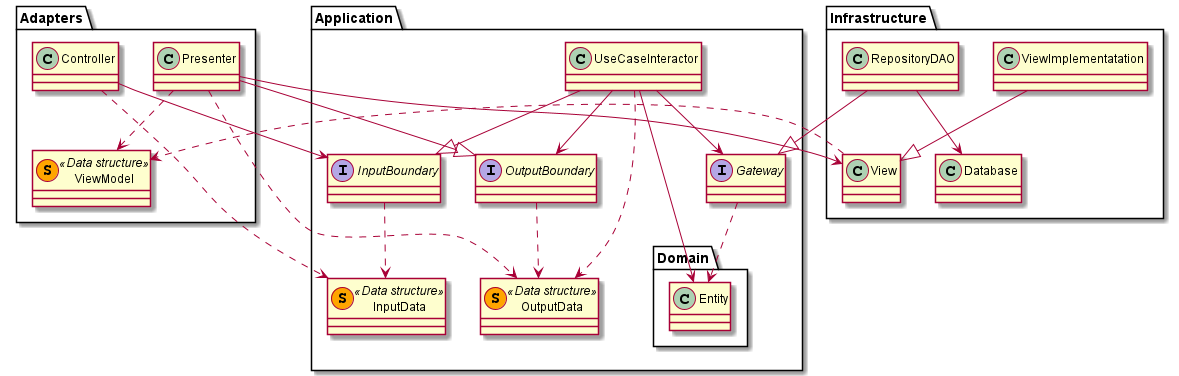
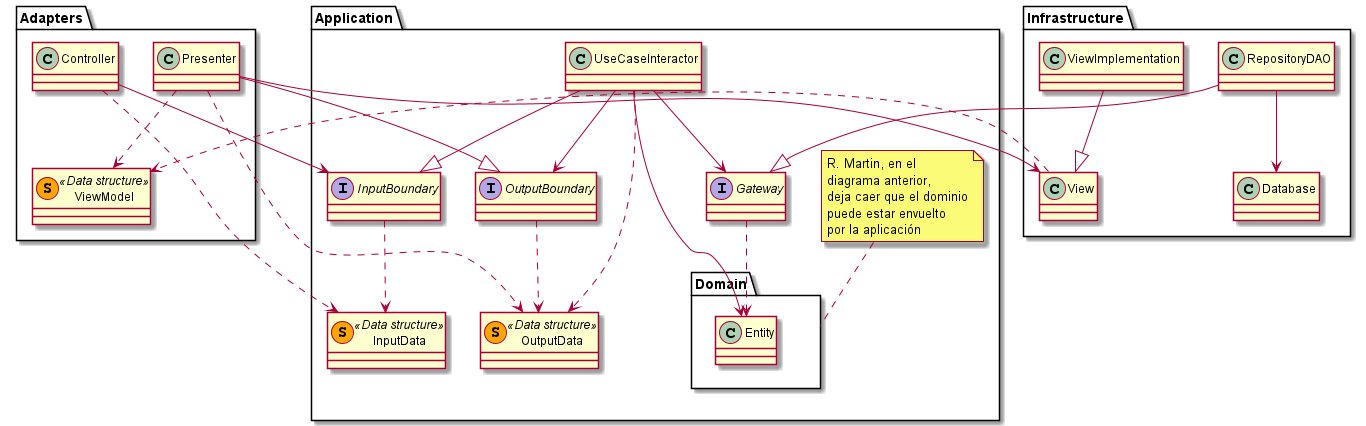
Architecture final version

diff --git a/Docs/Architecture/ReadMe.md b/Docs/Architecture/ReadMe.md
@@ -2,9 +2,6 @@
 
 Se va a implementar una arquitectura por capas siguiendo la terminología de la *clean architecture* propuesta por Robert Martin.
 
-## Diagrama resumen
-WIP.
-
 ## Correspondencia con MV*
 Esta tabla asocia dicha terminología con patrones arquitectónicos MV*:
 
@@ -20,6 +17,29 @@ Los principios en los que se basa son los que pueden resumir a cualquier arquite
 - El flujo de dependencias es unidireccional.
     - La dirección va de menos abstracción (mayor dependencia con tecnologías) a más abstracción.
 - El flujo de control hace un viaje de ida y vuelta, siguiendo primero el flujo de dependencias y después el sentido contrario.
+
+### Estructuras de datos
+
+Los elementos anteriores se comunican información apoyándose en estructuras de datos que son clases tontas,
+sin responsabilidad, análogas a los DTO solo que simplemente atravesando capas de la arquitectura.
+
+| Estructura   | Descripción |      Quién la envía      |  Quién la recibe | 
+|:-------:|:-----:|:--------:|:--------------:|
+| Input data | Qué entrada se ha recibido del usuario |  Controller | InputBoundary (UseCase/Interactor) |
+| Output data | La respuesta que se manda de vuelta al usuario | UseCase/Interactor | OutputBoundary (Presenter) |
+| ViewModel | Qué actualizar en la vista | Presenter | View (ViewImplementation) |
+
+### Abstracciones
+
+Se usan interfaces como "enchufes" que invierten las dependencias, de manera que las capas menos abstractas
+implementan esas interfaces sin que las capas más abstractas tengan que conocerlas. 
+
+| Abstracción   | Descripción | En qué capa está |  Quién la conoce      |  Quién la implementa | 
+|:-------:|:-----:|:--------:|:--------------:| :-----:|
+| InputBoundary | Entrada desde la infraestructura hacia el dominio | Dominio |  Controller | UseCase/Interactor |
+| OutputBoundary | Salida desde el dominio hacia la infraestructura | Dominio | UseCase/Interactor | Presenter |
+| Gateway | Conexiones con persistencia | Dominio | UseCase/Interactor | DAO |
+| View | Descripción genérica de una vista | Presentation | Presenter | ViewImplementation |
 
 ## Capas recomendadas
 
@@ -64,6 +84,21 @@ Este troceo se ejemplifica comparando las tres siguientes imágenes, donde:
 - la tercera la trocea para aumentar la cohesión de componentes;
 ![](CleanArchitecture-Sliced.png)
 
+
+Así pues, estos dos diagramas ejemplifican esa cohesión:
+- entre los componentes:
+
+![](CleanArchitecture-CohesiveComponents.png)
+- con las relaciones entre clases:
+
+![](CleanArchitecture-CohesiveComponents-Classes.png)
+  
+Por último, sintetizando entre el diagrama de capas que se vio anteriormente
+y esta última estructura de capas circulares, que es la que ha trascendido como
+la representante de la Clean Architecture,
+se podría tener todo completo en este diagrama final:
+
+![](CleanArchitecture-ClassesDiagram-Cohesive.png)
 
 
 
